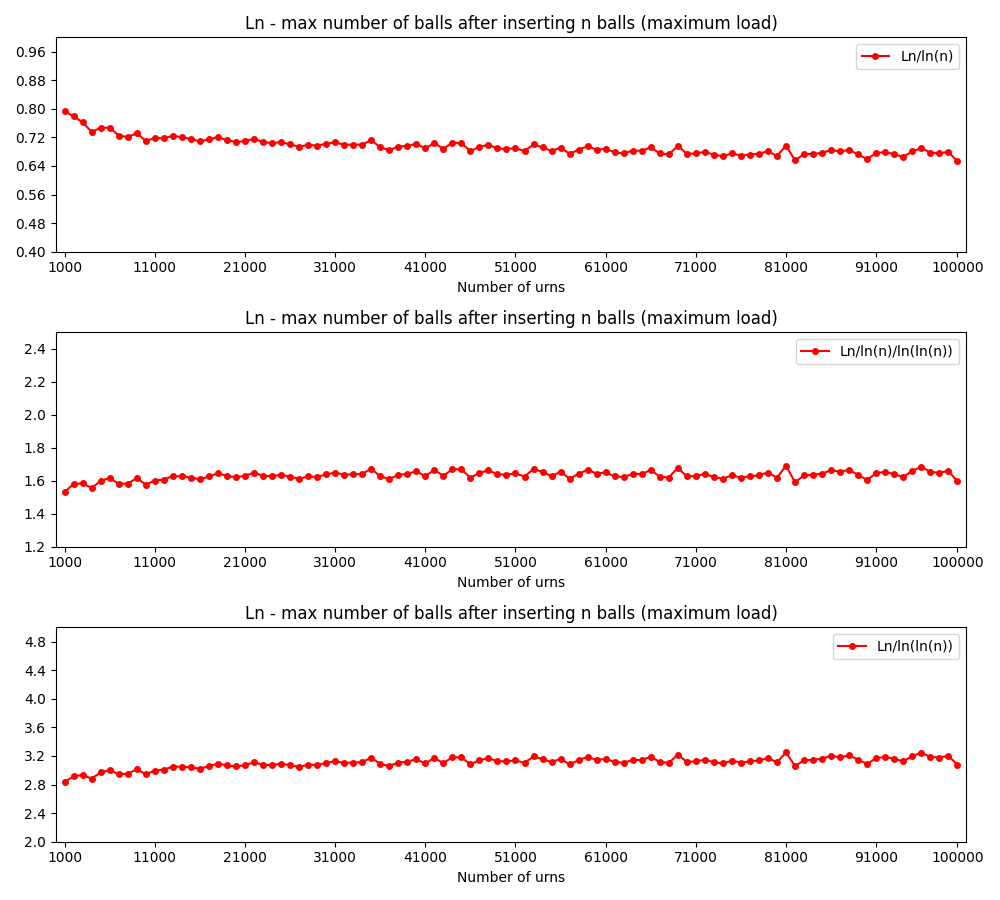
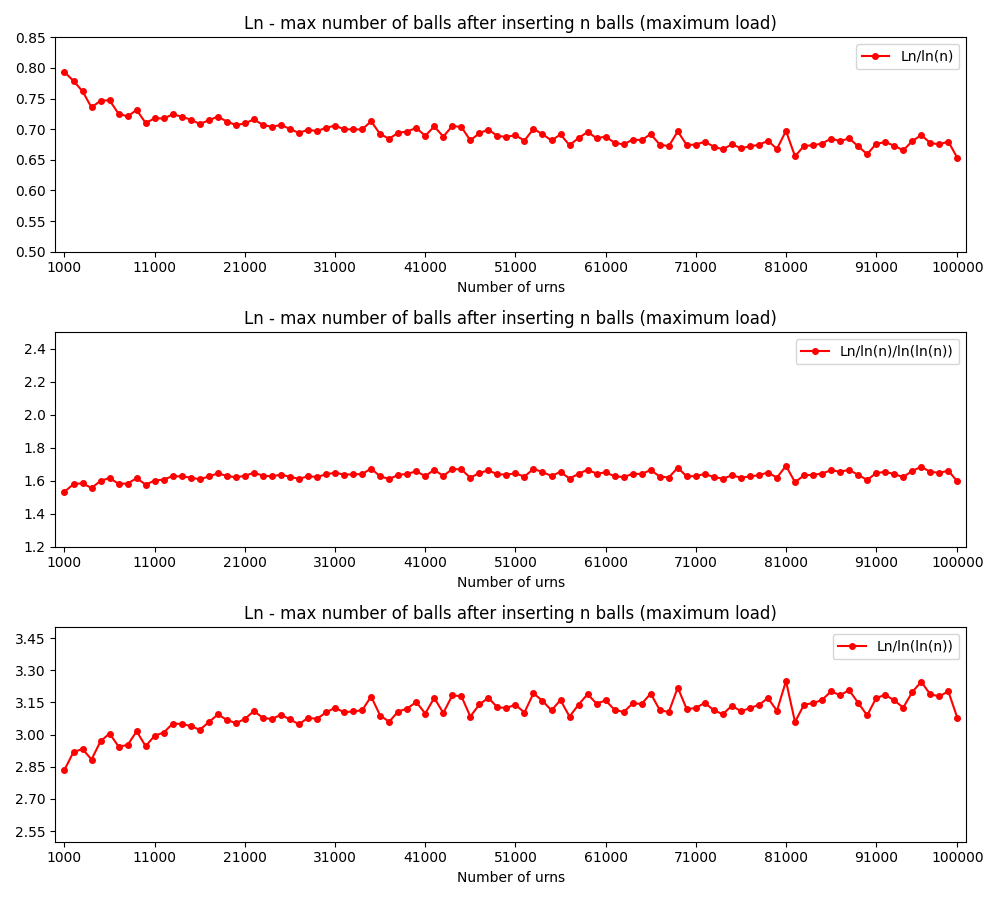
Last plots

diff --git a/zad2/plot.py b/zad2/plot.py
@@ -46,6 +46,23 @@ def scatter_avg_plot(data: list, axes, title: str):
   axes.legend()
   return axes
 
+def map_y_axis(f, x_axis: list, y_axis: list):
+  result = []
+  for i, x in enumerate(x_axis):
+    result.append(f(x, y_axis[i]))
+  return result 
+
+def mapped_avg_plot(data: list, axes, title: str, func, func_label: str):
+  axes.set(title=title)
+  axes.set_xlabel("Number of urns")
+  avg_mode = 'ro-' 
+  avgs = avg_y_axis(data[1])
+  mapped_avgs = list(map_y_axis(func, x_axis=data[0], y_axis=avgs))
+
+  # Plot average data
+  axes.plot(data[0], mapped_avgs, avg_mode, label=func_label, ms=4)
+  return axes
+
 def setup_plot(axes):
   #print("placeholder")
   axes.xaxis.set_major_locator(plt.MaxNLocator(12))
@@ -85,17 +102,17 @@ if __name__ == '__main__':
   fig.show()
   fig.savefig(f'{save_dir}/task2.png')
 
-  # # Lns
-  # fig, ax = plt.subplots(3, 1, figsize=(10, 9))
-  # mapped_avg_plot(data=funcs['ln'], axes=ax[0], title=funcs_titles['ln'], func=lambda x, y: y / np.log(x), func_label='Ln/ln(n)')
-  # setup_plot(ax[0])
-  # mapped_avg_plot(data=funcs['ln'], axes=ax[1], title=funcs_titles['ln'], func=lambda x, y: y / (np.log(x) / np.log(np.log(x))), func_label='Ln/ln(n)/ln(ln(n))')  
-  # setup_plot(ax[1])
-  # mapped_avg_plot(data=funcs['ln'], axes=ax[2], title=funcs_titles['ln'], func=lambda x,y : y / np.sqrt(x), func_label='Ln/sqrt(n)')
-  # setup_plot(ax[2])
-  # fig.tight_layout()
-  # fig.show()
-  # fig.savefig(f'{save_dir}/task1-lns.png')
+  # Lns
+  fig, ax = plt.subplots(2, 1, figsize=(10, 6))
+  mapped_avg_plot(data=funcs['d1'], axes=ax[0], title=f'Ln (d=1) - max number of balls after inserting n balls (maximum load)', func=lambda x, y: y / (np.log(x) / np.log(np.log(x))), func_label='Ln/ln(n)/ln(ln(n))')
+  ax[0].set_ylim(0.5, 2)
+  setup_plot(ax[0])
+  mapped_avg_plot(data=funcs['d2'], axes=ax[1], title=f'Ln (d=2) - max number of balls after inserting n balls (maximum load)', func=lambda x, y: y / (np.log(x) / np.log(np.log(x))), func_label='Ln/ln(n)/ln(ln(n))')  
+  ax[1].set_ylim(0.5, 1)
+  setup_plot(ax[1])
+  fig.tight_layout()
+  fig.show()
+  fig.savefig(f'{save_dir}/task2-lns.png')
 
 
   

diff --git a/zad1/plot.py b/zad1/plot.py
@@ -97,7 +97,7 @@ if __name__ == '__main__':
     'un': 'Un - number of empty urns after inserting n balls',
     'ln': 'Ln - max number of balls after inserting n balls (maximum load)',
     'cn': 'Cn - minimum of insertions for every urn to have at least one ball inside (coupon collector\'s problem)',
-    'dn': 'Dn - minimum of insertions for every urn to have at least two balls inside (coupon collector\'s brother',
+    'dn': 'Dn - minimum of insertions for every urn to have at least two balls inside (coupon collector\'s brother)',
     'dn_cn': 'Dn - Cn - number of insertions between Cn and Dn'
   }
   fig, ax = plt.subplots(6, 1, figsize=(10, 20))
@@ -142,13 +142,13 @@ if __name__ == '__main__':
   # Lns
   fig, ax = plt.subplots(3, 1, figsize=(10, 9))
   mapped_avg_plot(data=funcs['ln'], axes=ax[0], title=funcs_titles['ln'], func=lambda x, y: y / np.log(x), func_label='Ln/ln(n)')
-  ax[0].set_ylim(0.4, 1)  
+  ax[0].set_ylim(0.5, 0.85)  
   setup_plot(ax[0])
   mapped_avg_plot(data=funcs['ln'], axes=ax[1], title=funcs_titles['ln'], func=lambda x, y: y / (np.log(x) / np.log(np.log(x))), func_label='Ln/ln(n)/ln(ln(n))')  
   ax[1].set_ylim(1.2, 2.5)  
   setup_plot(ax[1])
   mapped_avg_plot(data=funcs['ln'], axes=ax[2], title=funcs_titles['ln'], func=lambda x,y : y / np.log(np.log(x)), func_label='Ln/ln(ln(n))')
-  ax[2].set_ylim(2, 5)  
+  ax[2].set_ylim(2.5, 3.5)  
   setup_plot(ax[2])
   fig.tight_layout()
   fig.show()
@@ -196,7 +196,3 @@ if __name__ == '__main__':
   fig.tight_layout()
   fig.show()
   fig.savefig(f'{save_dir}/task1-dn_cns.png')
-
-
-  
-
